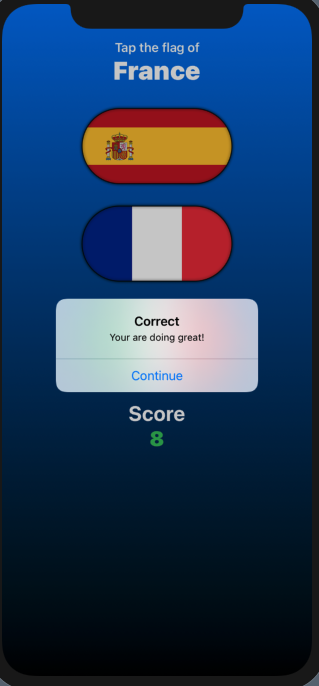
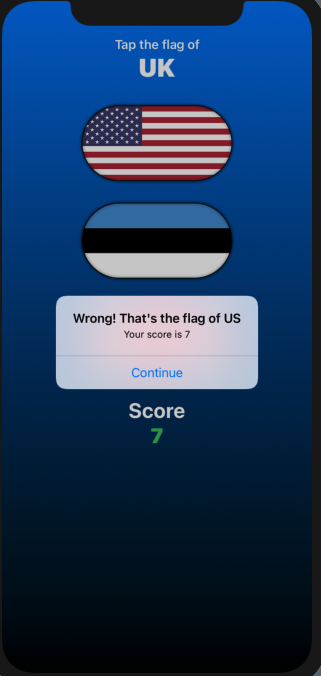
Update project 2

diff --git a/03-guessTheFlag/GuessTheFlag/GuessTheFlag/ContentView.swift b/03-guessTheFlag/GuessTheFlag/GuessTheFlag/ContentView.swift
@@ -14,7 +14,6 @@ struct ContentView: View {
     
     @State private var showingScore = false
     @State private var scoreTitle = ""
-    @State private var scoreMessage = ""
     @State private var score = 0
 
     var body: some View {
@@ -61,7 +60,7 @@ struct ContentView: View {
             }
         }
         .alert(isPresented: $showingScore) {
-            Alert(title: Text(scoreTitle), message: Text(scoreMessage), dismissButton: .default(Text("Continue"), action: {
+            Alert(title: Text(scoreTitle), message: Text("Your score is \(score)"), dismissButton: .default(Text("Continue"), action: {
                 self.askQuestion()
             }))
         }
@@ -70,11 +69,9 @@ struct ContentView: View {
     func flagTapped(_ number: Int) {
         if number == correctAnswer {
             scoreTitle = "Correct"
-            scoreMessage = "Your are doing great!"
             score += 1
         } else {
-            scoreTitle = "Wrong!"
-            scoreMessage = "That's the flag of \(countries[number])"
+            scoreTitle = "Wrong! That's the flag of \(countries[number])"
             if score != 0 {
                 score -= 1
             }

diff --git a/03-guessTheFlag/README.md b/03-guessTheFlag/README.md
@@ -7,11 +7,11 @@ Day 20: https://www.hackingwithswift.com/100/swiftui/20
 
 
 >1. Add an @State property to store the user’s score, modify it when they get an answer right or wrong, then display it in the alert.
- In the code you can see I added the new @State variable, and modified it in the flagTapped function, in the way, if user answer is correct we add 1 point to score, if user answer is wrong we rest 1 to the score, but checking that the score is not 0, we don’t want to display a minus score.  
+ In the code you can see I added the new @State variable, and modified it in the flagTapped function, in the way, if user answer is correct we add 1 point to score, if user answer is wrong we rest 1 to the score, but always checking that the score is not 0, we don’t want to display a minus score.  
 >2. Show the player’s current score in a label directly below the >flags.  Next to the ForEach we added the last VStack to make 2 Texts, one for placing “Score” and the other one to display the score of the user.  
 >3. When someone chooses the wrong flag, tell them their mistake in your alert message – something like “Wrong! That’s the flag of France,” >for example.
  
-Added a new variable, and replaced the static message of the Alert with this new variable, in the same way with the scoreTitle, we change the String of this new variable when user is correct or wrong.
+Chagend the message when the user choose a wrong answer, now the Alert displays the name of the wrong flag.
 
 
 ## Screenshoots
